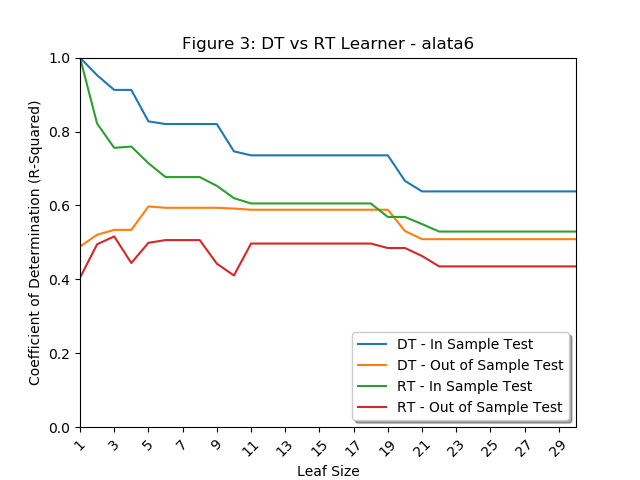
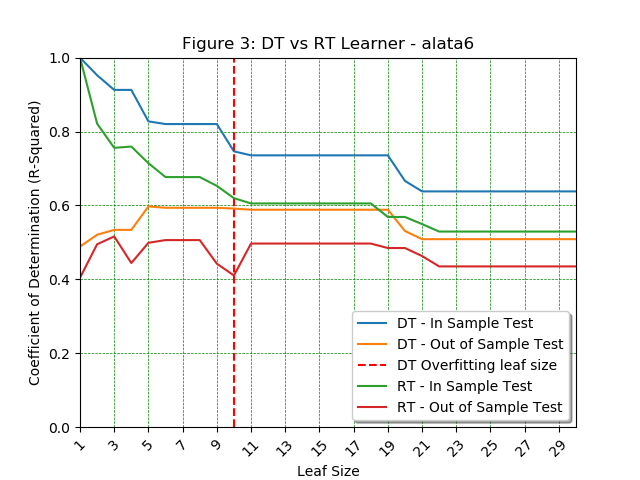
adding grid

diff --git a/assess_learners/testlearner.py b/assess_learners/testlearner.py
@@ -275,6 +275,7 @@ if __name__ == "__main__":
     print('exp1_min_rmse_out_sample ', exp1_min_rmse_out_sample, " exp1_max_rmse_in_sample ", exp1_max_rmse_in_sample, " exp1_max_rmse_out_sample ", exp1_max_rmse_out_sample, "exp1_min_rmse_out_leaf_size", exp1_min_rmse_out_leaf_size)
 
     plt.figure(1)
+    plt.grid(color='green', linestyle='--', linewidth=0.5)
     plt.axis([1, exp1_max_leaf_size, 0, max(exp1_max_rmse_in_sample, exp1_max_rmse_out_sample)])
     plt.axvline(x=exp1_min_rmse_out_leaf_size, color='r', label='Overfitting leaf size', linestyle='dashed')
     plt.xlabel('Leaf Size')
@@ -323,6 +324,7 @@ if __name__ == "__main__":
           exp2_min_rmse_out_leaf_size)
 
     plt.figure(2)
+    plt.grid(color='green', linestyle='--', linewidth=0.5)
     plt.axis([1, exp2_max_leaf_size, 0, max(exp2_max_rmse_in_sample, exp2_max_rmse_out_sample, exp1_max_rmse_in_sample, exp1_max_rmse_out_sample)])
     plt.axvline(x=exp2_min_rmse_out_leaf_size, color='r', label='BagL - Overfitting leaf size', linestyle='dashed')
     plt.xlabel('Leaf Size')
@@ -399,6 +401,7 @@ if __name__ == "__main__":
     print('exp3_dt_min_rmse_out_sample ', exp3_dt_min_rmse_out_sample, " exp3_dt_max_rmse_in_sample ", exp3_dt_max_rmse_in_sample, " exp3_dt_max_rmse_out_sample ", exp3_dt_max_rmse_out_sample, "exp3_dt_min_rmse_out_leaf_size", exp3_dt_min_rmse_out_leaf_size)
 
     plt.figure(3)
+    plt.grid(color='green', linestyle='--', linewidth=0.5)
     plt.axis([1, exp3_max_leaf_size, 0, max(exp3_dt_max_rmse_in_sample, exp3_dt_max_rmse_out_sample, exp3_rt_max_rmse_in_sample, exp3_rt_max_rmse_out_sample)])
     plt.axvline(x=exp3_dt_min_rmse_out_leaf_size, color='r', label='DT Overfitting leaf size', linestyle='dashed')
     plt.xlabel('Leaf Size')
@@ -413,6 +416,7 @@ if __name__ == "__main__":
     plt.savefig('Experiment_3_rmse.png')
 
     plt.figure(4)
+    plt.grid(color='green', linestyle='--', linewidth=0.5)
     plt.axis([1, exp3_max_leaf_size, 0, max(exp3_dt_max_rsq_in_sample, exp3_dt_max_rsq_out_sample, exp3_rt_max_rsq_in_sample,exp3_rt_max_rsq_out_sample)])
     plt.xlabel('Leaf Size')
     plt.xticks(ticks=exp3_xticks, rotation=45)
@@ -420,12 +424,14 @@ if __name__ == "__main__":
     plt.title('Figure 3: DT vs RT Learner - alata6')
     plt.plot(exp3_dt_rsq_in_sample, label='DT - In Sample Test')
     plt.plot(exp3_dt_rsq_out_of_sample, label='DT - Out of Sample Test')
+    plt.axvline(x=exp3_dt_min_rmse_out_leaf_size, color='r', label='DT Overfitting leaf size', linestyle='dashed')
     plt.plot(exp3_rt_rsq_in_sample, label='RT - In Sample Test')
     plt.plot(exp3_rt_rsq_out_of_sample, label='RT - Out of Sample Test')
     plt.legend(loc='lower right', shadow=True, fontsize='medium')
     plt.savefig('Experiment_3_rsq.png')
 
     plt.figure(5)
+    plt.grid(color='green', linestyle='--', linewidth=0.5)
     plt.axis([1, exp3_max_leaf_size, 0, max(np.nanmax(exp3_dt_train_time), np.nanmax(exp3_rt_train_time))])
     plt.xlabel('Leaf Size')
     plt.xticks(ticks=exp3_xticks, rotation=45)
